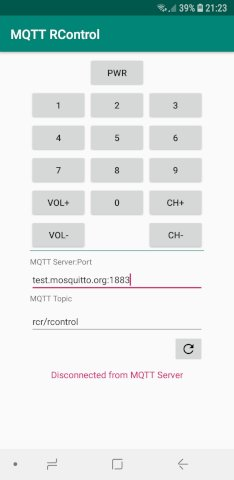
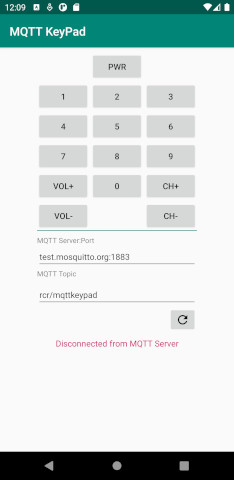
Cambia nombre a la app y la prepara para subir a Google Play

Changed region(s): [[0.0, 0.0, 1.0, 0.8125], [0.0, 0.9375, 1.0, 1.0], [0.6581, 0.0, 0.9872, 0.0312]]

diff --git a/Android/MQTT KeyPad/src/androidTest/java/rcr/mqttkeypad/ExampleInstrumentedTest.java b/Android/MQTT KeyPad/src/androidTest/java/rcr/mqttkeypad/ExampleInstrumentedTest.java
@@ -1,8 +1,8 @@
-package rcr.rcontrolandmqtt;
+package rcr.mqttkeypad;
 
 import android.content.Context;
-import android.support.test.InstrumentationRegistry;
-import android.support.test.runner.AndroidJUnit4;
+import androidx.test.platform.app.InstrumentationRegistry;
+import androidx.test.ext.junit.runners.AndroidJUnit4;
 
 import org.junit.Test;
 import org.junit.runner.RunWith;
@@ -21,6 +21,6 @@ public class ExampleInstrumentedTest {
         // Context of the app under test.
         Context appContext = InstrumentationRegistry.getTargetContext();
 
-        assertEquals("rcr.rcontrolandmqtt", appContext.getPackageName());
+        assertEquals("rcr.mqttkeypad", appContext.getPackageName());
     }
 }

diff --git a/Android/MQTT KeyPad/src/main/java/rcr/mqttkeypad/MainActivity.java b/Android/MQTT KeyPad/src/main/java/rcr/mqttkeypad/MainActivity.java
@@ -1,11 +1,11 @@
-package rcr.rcontrolandmqtt;
+package rcr.mqttkeypad;
 
 import java.util.UUID;
 
 import android.content.Context;
 import android.content.SharedPreferences;
 import android.os.Bundle;
-import android.support.v7.app.AppCompatActivity;
+import androidx.appcompat.app.AppCompatActivity;
 //import android.util.Log;
 import android.view.View;
 import android.widget.Button;

diff --git a/Android/MQTT KeyPad/src/test/java/rcr/mqttkeypad/ExampleUnitTest.java b/Android/MQTT KeyPad/src/test/java/rcr/mqttkeypad/ExampleUnitTest.java
@@ -1,4 +1,4 @@
-package rcr.rcontrolandmqtt;
+package rcr.mqttkeypad;
 
 import org.junit.Test;
 

diff --git a/README.md b/README.md
@@ -1,16 +1,18 @@
-# IR-RemoteControl-MQTT
-Universal MQTT Remote Control for any IR device
+# MQTT KeyPad
+A simple MQTT keypad
+
+## Example: control an IR device using MQTT
 
 1. Capture IR codes with an ESP8266 and send it to an MQTT Server (and save the IR codes to use in a Python script)
 
-	![](./Images/IR Capture_bb.jpg)
-	![](./Images/IR Capture Sketch.jpg)
+    ![](./Images/IR Capture_bb.jpg)
+    ![](./Images/IR Capture Sketch.jpg)
 
 2. Send IR codes to your devices using an MQTT Server
 
-	![](./Images/IR Send_bb.jpg)
-	![](./Images/IR Send Sketch.jpg)
+    ![](./Images/IR Send_bb.jpg)
+    ![](./Images/IR Send Sketch.jpg)
 
 3. Control your IR devices with this simple app and the Test.py script
 
-	![](./Images/Screenshot.jpg)
+    ![](./Images/Screenshot.jpg)
